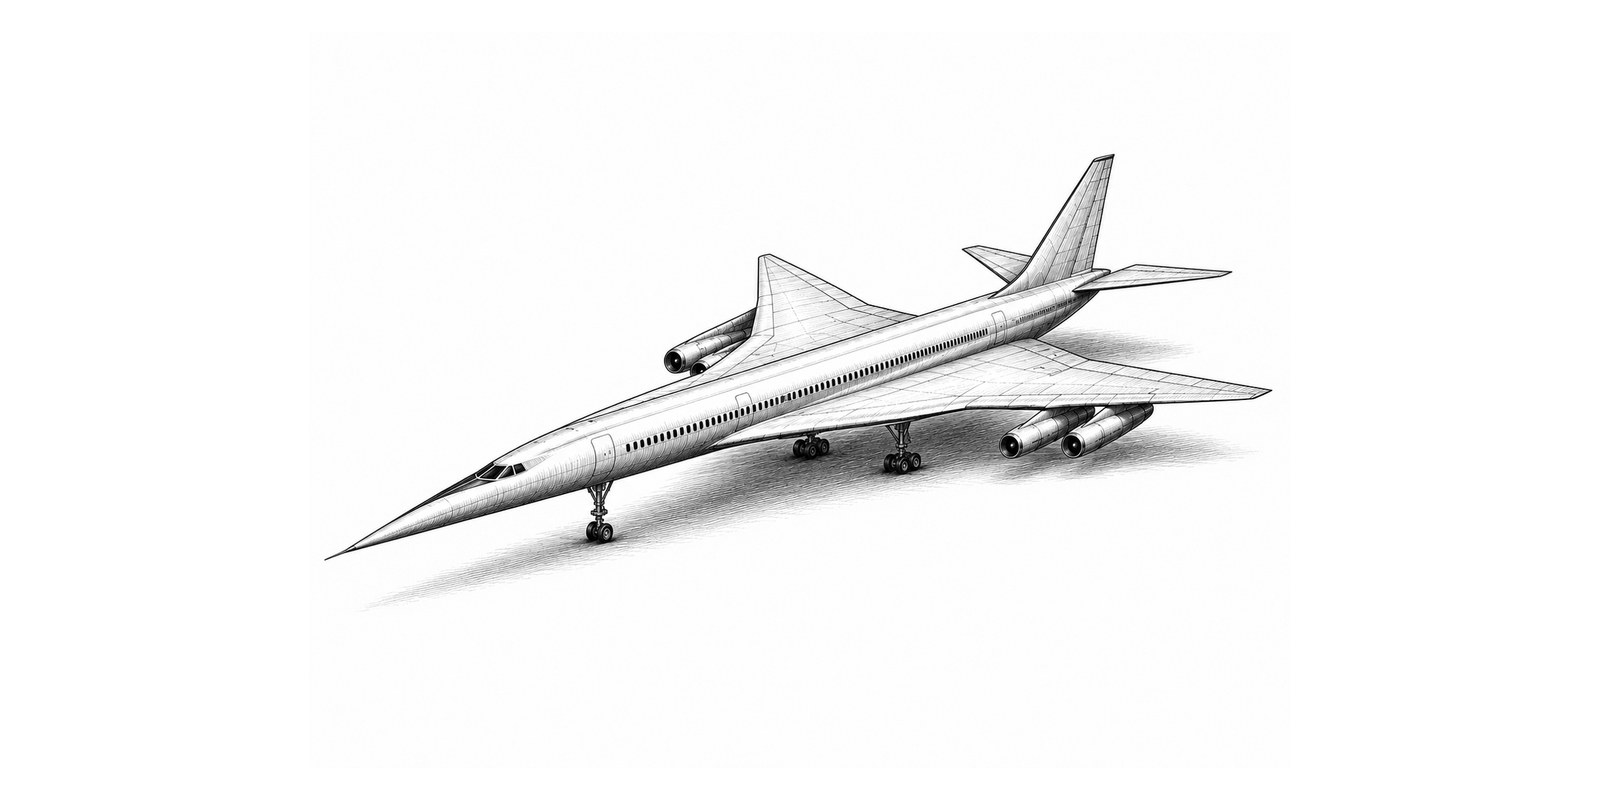
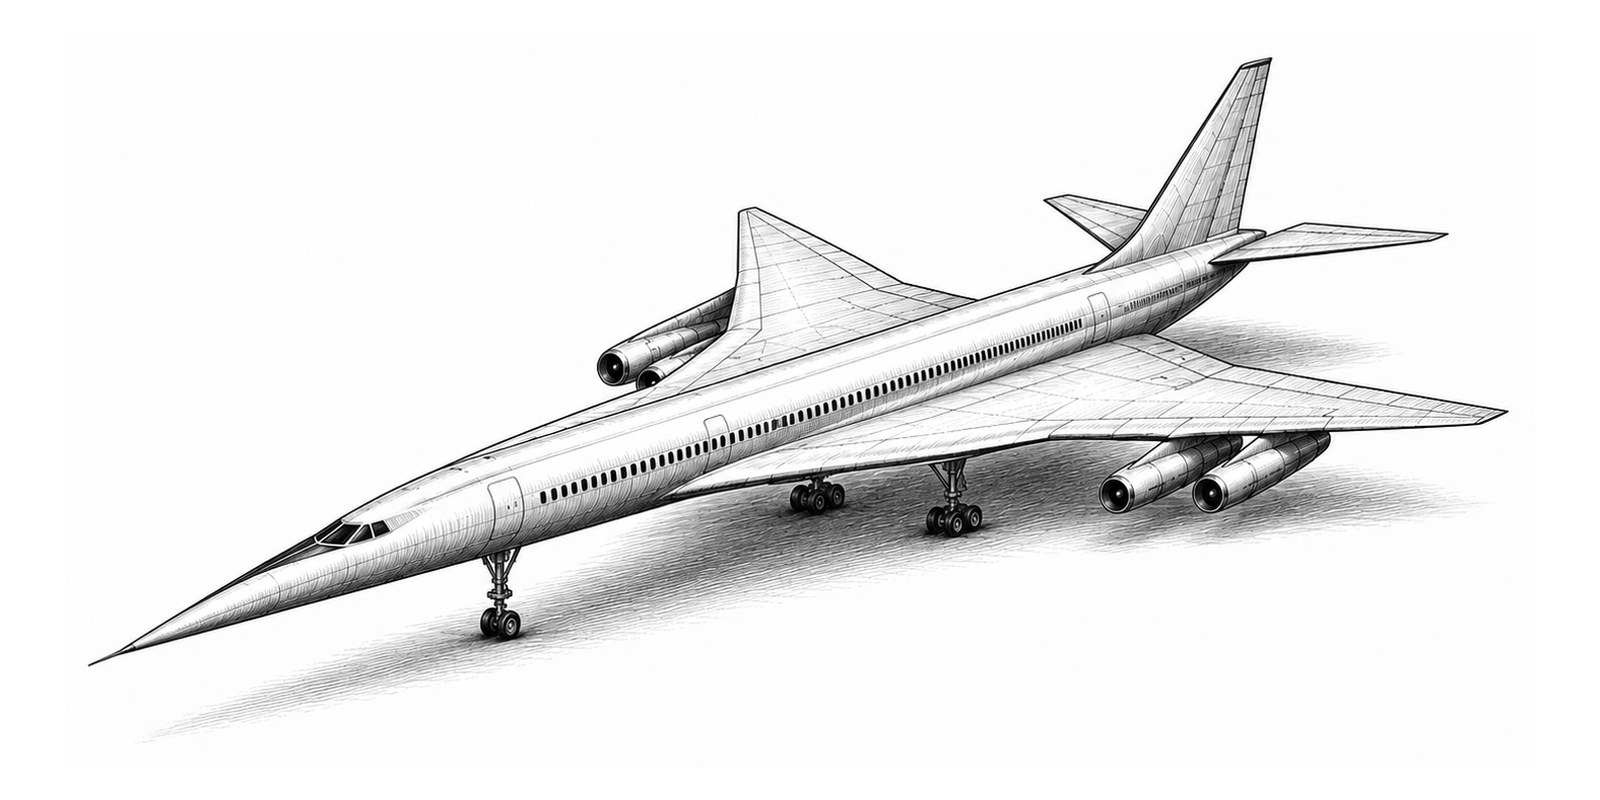
Improve airliner size within responsive exhibit images

Changed region(s): [[0.0625, 0.0625, 0.9375, 0.9062]]

diff --git a/docs/IMAGE_WORKFLOW.md b/docs/IMAGE_WORKFLOW.md
@@ -39,5 +39,6 @@ engraving style and complete silhouette.
 
 Exports: `boeing-2707-standard-4x3.jpg` (1200×900) and
 `boeing-2707-master-2x1.jpg` (1600×800), grayscale JPEG. Contain resizing with
-white margins retains the complete subject. CI pins the newest exhibit with
+white margins retains the complete subject. Only blank top/bottom paper
+margins were trimmed before export to make the airliner legible at small sizes. CI pins the newest exhibit with
 local images served over localhost for review before its assets reach main.
